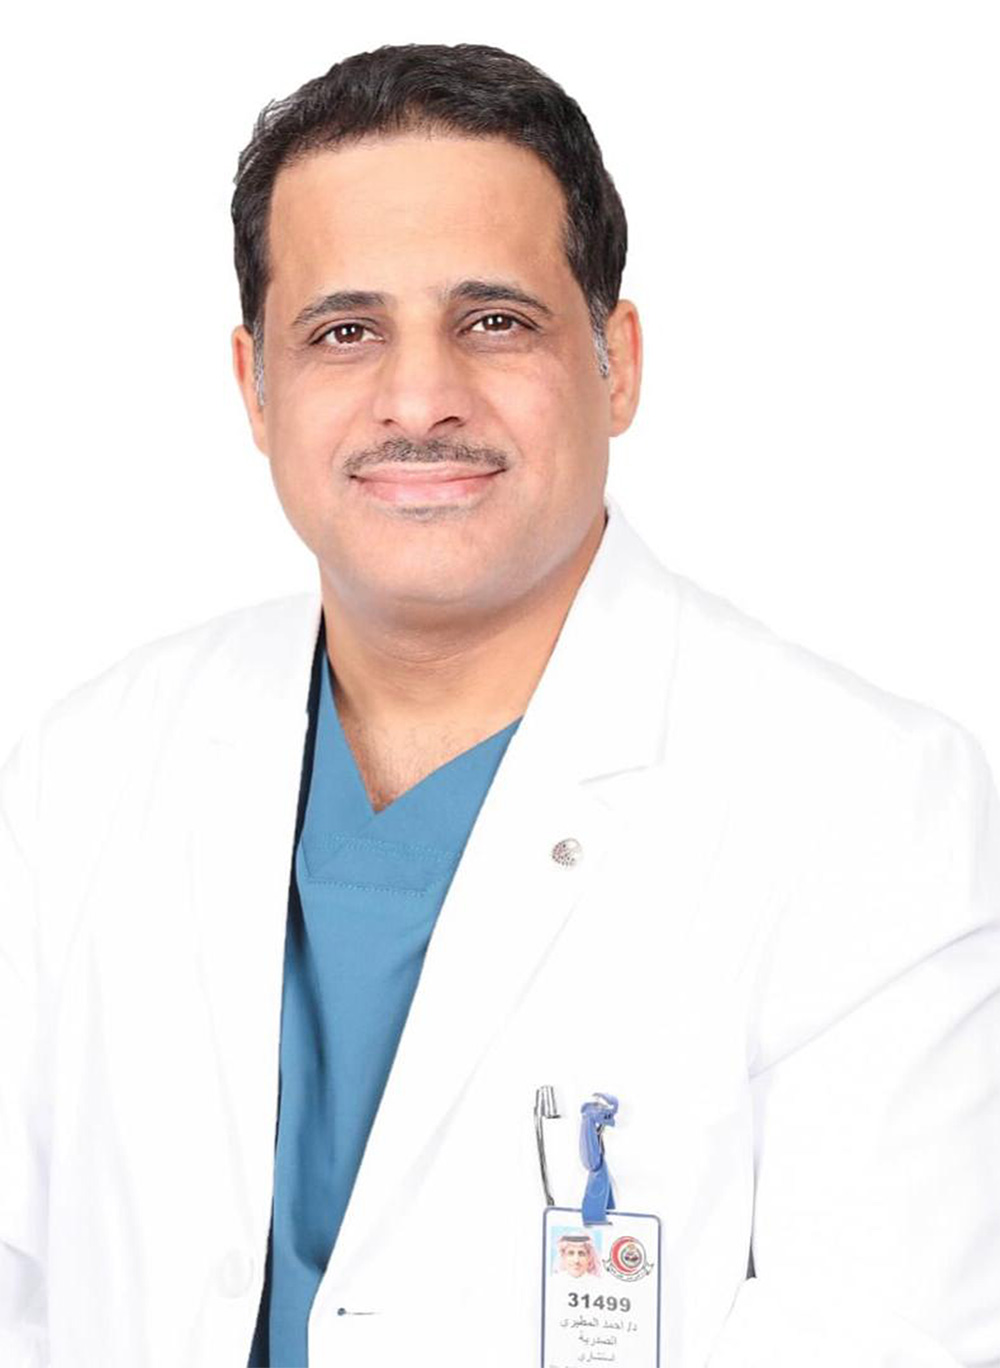
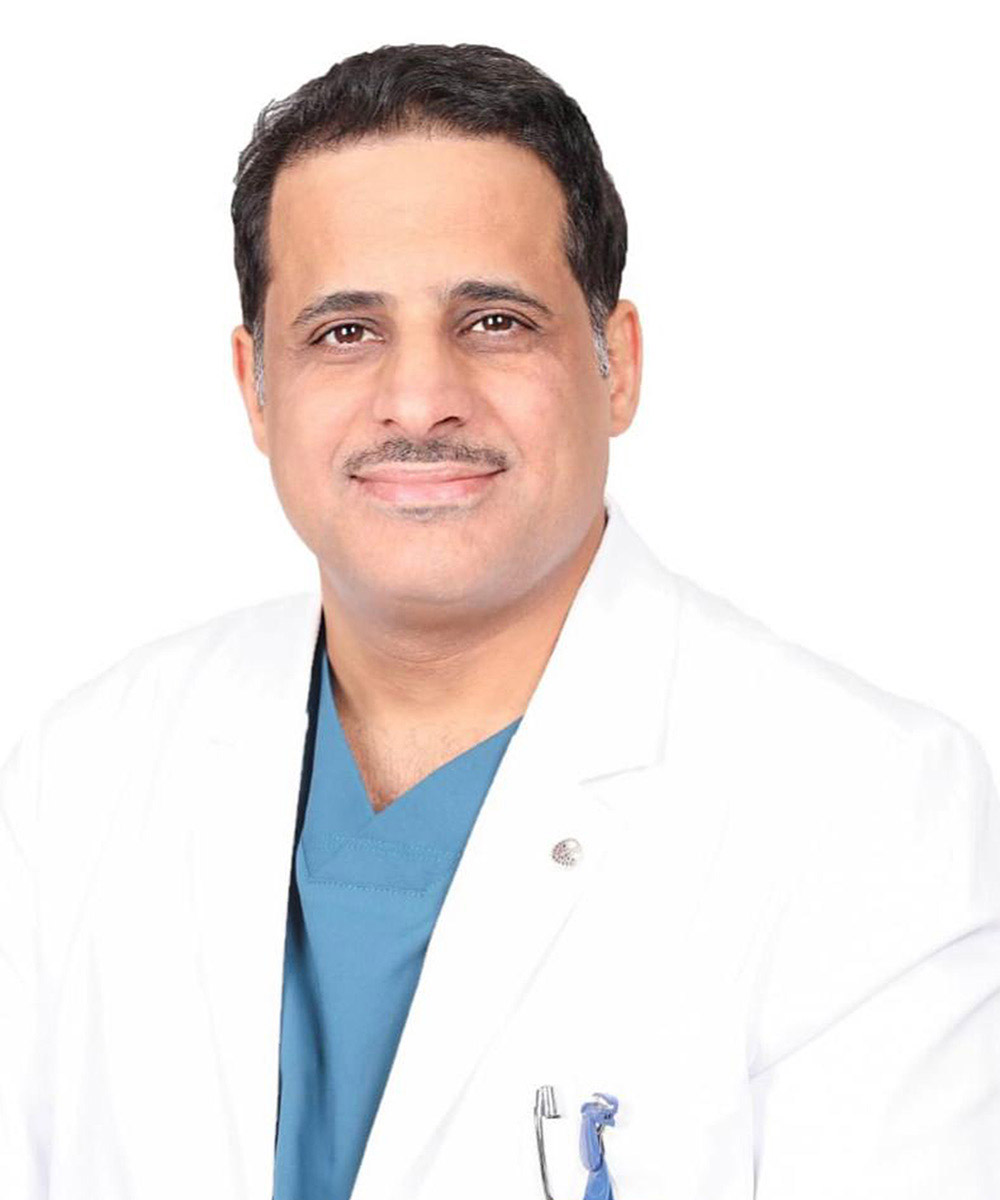
seo and some improvments: our message

diff --git a/index.html b/index.html
@@ -7,6 +7,12 @@
     <meta name="viewport" content="width=device-width, initial-scale=1, shrink-to-fit=no">
     <meta name="title" content="عيادة سبات | Subat Clinic">
 
+    <!-- SEO -->
+    <meta http-equiv="Content-Type" content="text/html; charset=utf-8" />
+    <meta name="description" content="سبات وجهتك في الوقاية من اضطرابات النوم التي قد تعيث حصولك على كفاية جيدة من النوم وتجنبك أي حالة تُعيق ممارسة وظيفتك وأنشطتك اليومية.">
+    <meta name="robots" content="index, follow" />
+    <meta name="keywords" content="سبات, عيادة, عيادات, اضطرابات النوم, مشاكل النوم, الأرق, الكوابيس, التبول اللارادي, الهلع, الجاثوم, السهر, دكتور, احمد الرحيمي, استشاري, النوم, افحص نفسك, المشي أثناء النوم, متلازمة تململ الساقين, اضطرابات الساعة البيولوحية, الساعة البايولوجية, الساعة البايولوجية, subat, subatclinic, clinic, sleep disorder, nighmares, doctor, sleep walking انقطاع التنفس الانسدادي النومي,  الجز على الأسنان">
+
     <!-- Favicon -->
     <link rel="icon" href="./assets/img/favicon/favicon.png" type="image/png">
 
@@ -59,22 +65,26 @@
                     </div>
                     <ul class="navbar-nav navbar-nav-hover justify-content-center">
                         <li class="nav-item text-center">
-                            <a href="#who" class="nav-link">من نحن</a>
+                            <a href="#who" class="nav-link">رسالتنا</a>
                         </li>
                         <li class="nav-item text-center">
                             <a href="#why" class="nav-link">لماذا سبات</a>
                         </li>
-                        <li class="nav-item  text-center">
-                            <a href="#dr" class="nav-link">الفريق الطبي</a>
-                        </li>
                         <li class="nav-item text-center">
                             <a href="#contact" class="nav-link">اتصل بنا</a>
+                        </li>
+                        <li class="nav-item text-center d-block d-md-none">
+                            <a href="https://koonagency.typeform.com/to/KDgqCvFK?typeform-medium=embed-snippe"
+                                    data-aos="fade-up" data-aos-duration="800" data-aos-delay="200" href="#"
+                                    target="_blank" class="btn btn-lg px-5 btn-subat animate-up-2 mt-2 typeform-share">
+                                    احجز الآن
+                            </a>
                         </li>
                     </ul>
                 </div>
                 <div class="d-none d-lg-block d-lg-none">
                     <a href="./">
-                        <img src="./assets/img/logo.svg" height="35" alt="Logo Impact">
+                        <img src="./assets/img/logo.svg" height="35" alt="Logo Impact" alt="subat clinic white logo svg">
                     </a>
                 </div>
                 <div class="d-flex d-lg-none align-items-center">
@@ -102,7 +112,7 @@
                                 </h1>
                                 <h6 class="text-muted letter-spacing" data-aos="fade-up" data-aos-duration="800" data-aos-delay="200">
                                     <span>
-                                        <img class="w-l" src="./assets/img/logo.svg">
+                                        <img class="w-l" src="./assets/img/logo.svg" alt="subat clinic blue logo svg">
                                     </span>
                                     نستطيع مساعدتك في
                                 </h6>
@@ -125,11 +135,13 @@
                             data-aos-duration="900">
                     </div>
                     <div class="hero text-right px-lg-5">
-                        <h1 class="mb-4 mt-0 letter-spacing" data-aos="fade-right" data-aos-duration="700">من نحن</h1>
-                        <p class="px-4 mb-3 mb-md-5 mt-0 rtl" data-aos="fade-right" data-aos-duration="700"
-                            data-aos-delay="100">سبات وجهتك في الوقاية من اضطرابات النوم التي قد تعيث حصولك
-                            على كفاية جيدة من النوم وتجنبك أي حالة تُعيق ممارسة وظيفتك وأنشطتك اليومية.</p>
-                        <!-- <div class="spacer"></div> -->
+                        <h1 class="mb-3 mt-0 letter-spacing" data-aos="fade-right" data-aos-duration="700">رسالتنا</h1>
+                        <p class="px-4 mb-3 mb-md-4 mt-0 rtl" data-aos="fade-right" data-aos-duration="700"
+                            data-aos-delay="100">نقدم التشخيص الصحيح ومن ثم العلاج المناسب لاضطرابات النوم السائدة في المجتمع مع الحفاظ على أعلى مستوى من الرعاية الطبية وفق الرؤى والمعايير العالمية</p>
+                        <h1 class="mb-3 mt-4 letter-spacing" data-aos="fade-right" data-aos-duration="700" data-aos-delay="150">رؤيتنا</h1>
+                        <p class="px-4 mb-2 mb-md-3 mt-0 rtl" data-aos="fade-right" data-aos-duration="700" data-aos-delay="180">
+                            نستمر لتكون العيادة الرائدة في مجال طب النوم وخدمات التشخيص لمرضانا اللذين هم أولى أولويتنا.
+                        </p>
                     </div>
                 </div>
             </div>
@@ -140,7 +152,7 @@
                 <div class="grid-hero">
                     <div class="hero align-items-center">
                         <img src="./assets/img/dr.jpg" width="60%" height="auto" data-aos="fade-right"
-                            class="aos-init aos-animate" data-aos-duration="700" style="width: 60%">
+                            class="aos-init aos-animate" data-aos-duration="700" style="width: 60%" alt="doctor ahmed alruhaimi subat clinic">
                     </div>
                     <div class="hero text-right">
                         <h1 class="mb-1 mt-3 aos-init aos-animate letter-spacing" data-aos="fade-right" data-aos-duration="700">الدكتور
